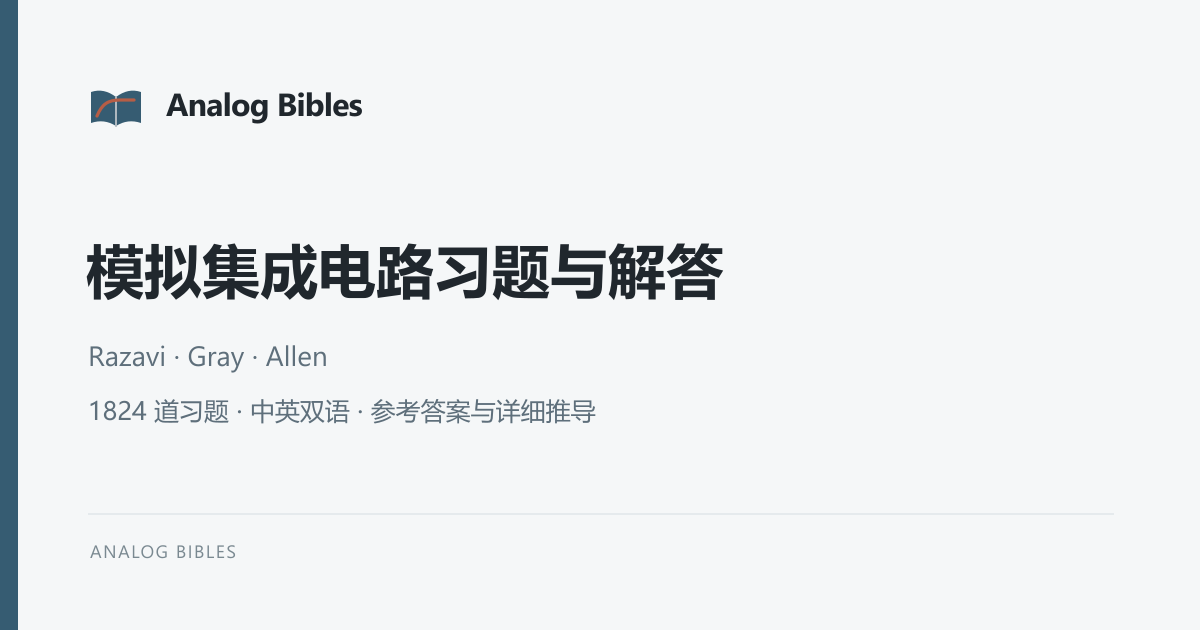
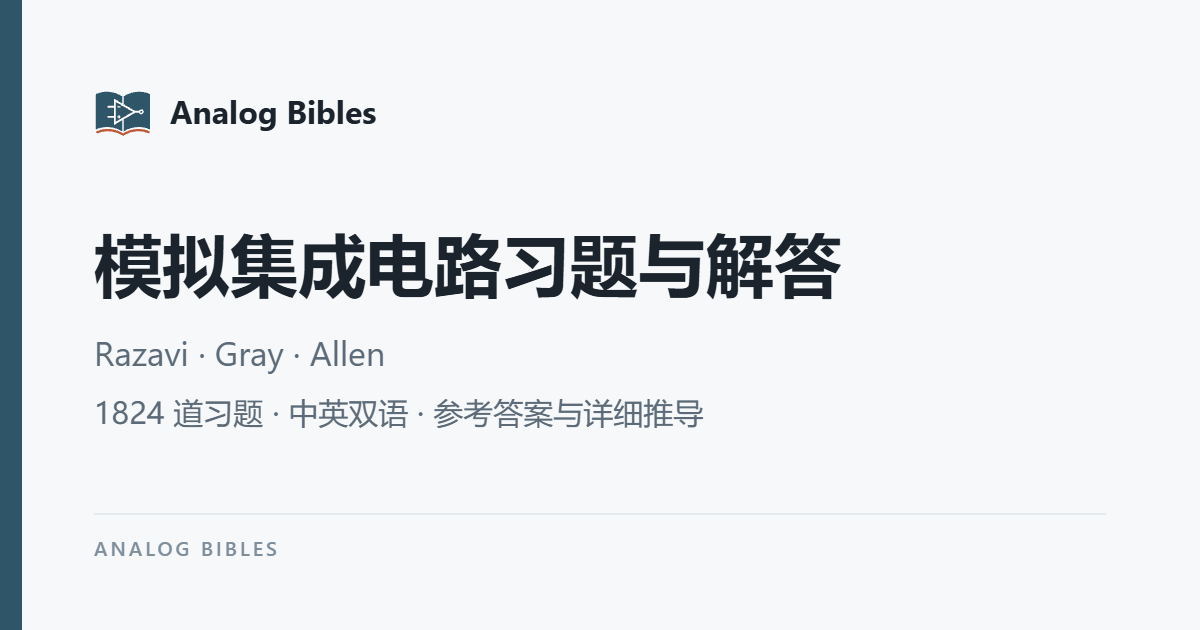
feat: update Analog Bibles op-amp branding

diff --git a/site/public/brand/README.md b/site/public/brand/README.md
@@ -1,15 +1,14 @@
 # Analog Bibles brand assets
 
-These assets keep the earlier PR21 book-and-response geometry while using the
-reader's current blue-gray and oxide palette. The response trace is the same
-continuous curve in every size, with no separate endpoint dot, so the header
-mark and favicon remain recognizably related.
+The mark pairs an open book with an op-amp symbol to represent the site's
+analog circuit textbook problems.
 
-- `mark.svg` and `mark-dark.svg` are the compact header and app icon variants.
+- `mark.svg` and `mark-dark.svg` match the page's selected theme.
 - `logo.svg` and `logo-dark.svg` are full wordmarks for surfaces where the name
-  needs to stand on its own.
-- `favicon.svg` follows the system color scheme.
-- `share-card.svg` and `share-card.png` are the 1200 × 630 social preview assets.
+  needs to stand on its own. Their lettering is drawn as SVG paths.
+- `favicon.svg` mirrors the site root favicon. Both follow the system color
+  scheme and simplify the op-amp symbol for small sizes.
+- `share-card.png` is the 1200 × 630 social preview image.
 - `../favicon.svg`, `../favicon-32x32.png`, and `../apple-touch-icon.png` are the
   browser and home-screen fallbacks required by the site shell.
 
